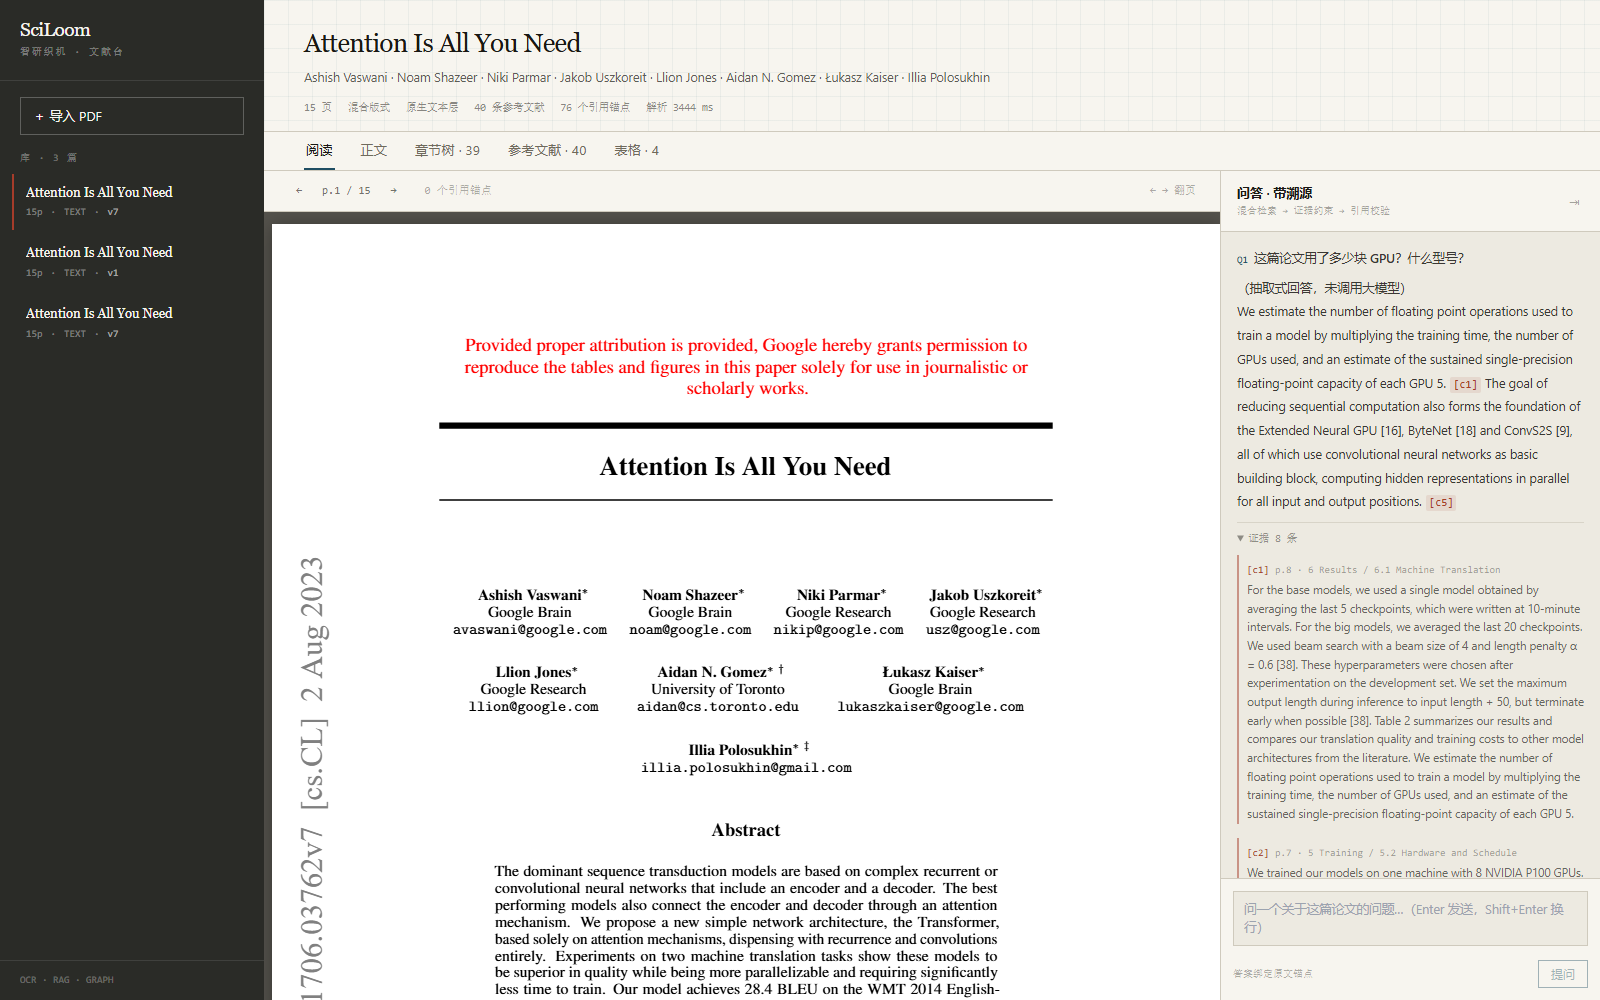
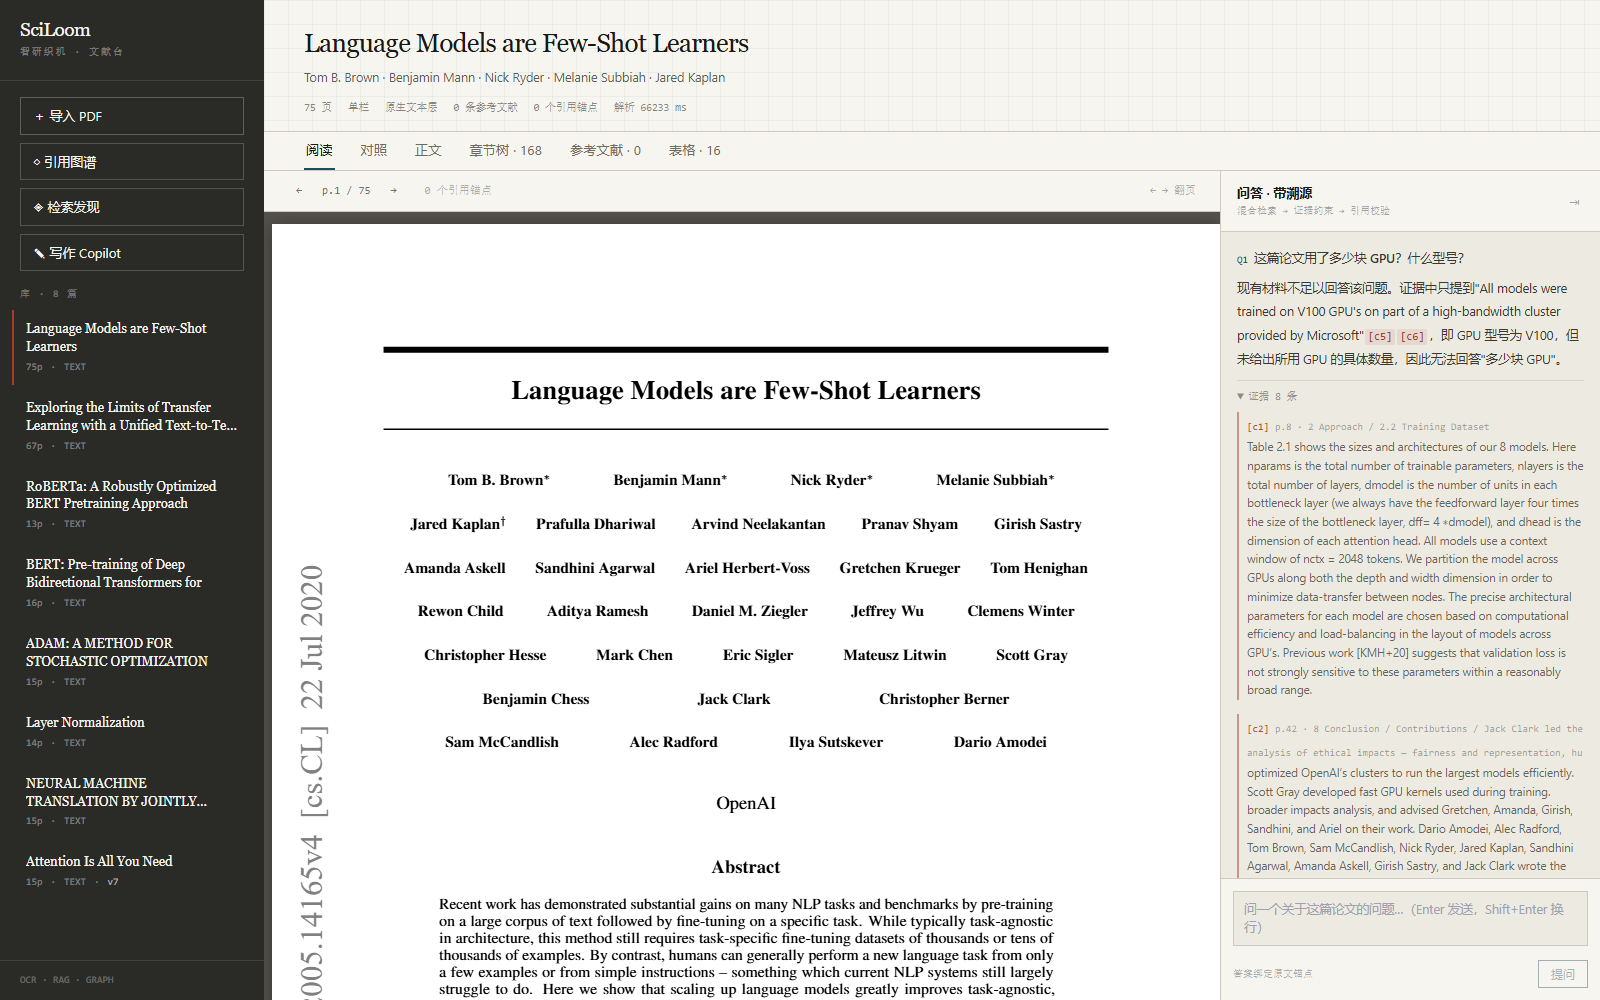
feat(deploy,ops): Docker 部署编排与一键启停脚本
- api/web 多阶段镜像 + nginx 反代（SSE 关闭缓冲）+ docker-compose
- scripts/start.ps1 与 stop.ps1：带端口占用检测、日志落 docs/
- 修复引用校验正则：证据编号是 c1/c5 这类短编号，原正则要求 4 位以上，
  导致引用永远校验不通过、每轮都被误判为 ungrounded
- 接入 DeepSeek 后问答已切换到模型生成模式，实测可拒答并给出依据

diff --git a/scripts/qa_compare.py b/scripts/qa_compare.py
@@ -1,0 +1,37 @@
+"""对比问答：同一问题在抽取式与大模型模式下的输出差异。
+
+用法:
+    python scripts/qa_compare.py [doc_id]
+"""
+
+from __future__ import annotations
+
+import sys
+
+import httpx
+
+QUESTIONS = [
+    "这篇论文最大的模型有多少参数？",
+    "训练时用了多少块 GPU、什么型号？",
+]
+
+
+def main() -> None:
+    with httpx.Client(base_url="http://127.0.0.1:8000", timeout=600) as client:
+        docs = client.get("/api/documents").json()
+        doc_id = sys.argv[1] if len(sys.argv) > 1 else docs[0]["doc_id"]
+        target = next((d for d in docs if d["doc_id"] == doc_id), docs[0])
+        print(f"文档: {target['title'][:60]} ({doc_id})")
+        client.post(f"/api/documents/{doc_id}/index")
+
+        for q in QUESTIONS:
+            print(f"\n== {q}")
+            resp = client.post("/api/qa/ask", json={"doc_id": doc_id, "question": q, "top_k": 8})
+            data = resp.json()
+            print("mode:", data["mode"], "| warnings:", data["warnings"])
+            print("answer:", data["answer"][:500])
+            print("evidence:", [(e["chunk_id"], e["page"] + 1) for e in data["evidence"][:4]])
+
+
+if __name__ == "__main__":
+    main()

diff --git a/apps/api/app/services/qa.py b/apps/api/app/services/qa.py
@@ -24,7 +24,9 @@ from .retrieval import DocumentIndex, get_embedder, tokenize
 
 logger = logging.getLogger(__name__)
 
-CITE_TAG_RE = re.compile(r"\[(c[0-9a-zA-Z]{4,16})\]")
+# 证据编号是 c1、c2 …（短编号，模型不易抄错），匹配放宽到 1-3 位数字。
+# 早期写成 c[0-9a-zA-Z]{4,16}，短编号永远匹配不上，导致引用校验形同虚设。
+CITE_TAG_RE = re.compile(r"\[(c\d{1,3})\]")
 
 SYSTEM_PROMPT = """你是严谨的学术文献阅读助手。你只能依据 <证据> 中的片段作答。
 
